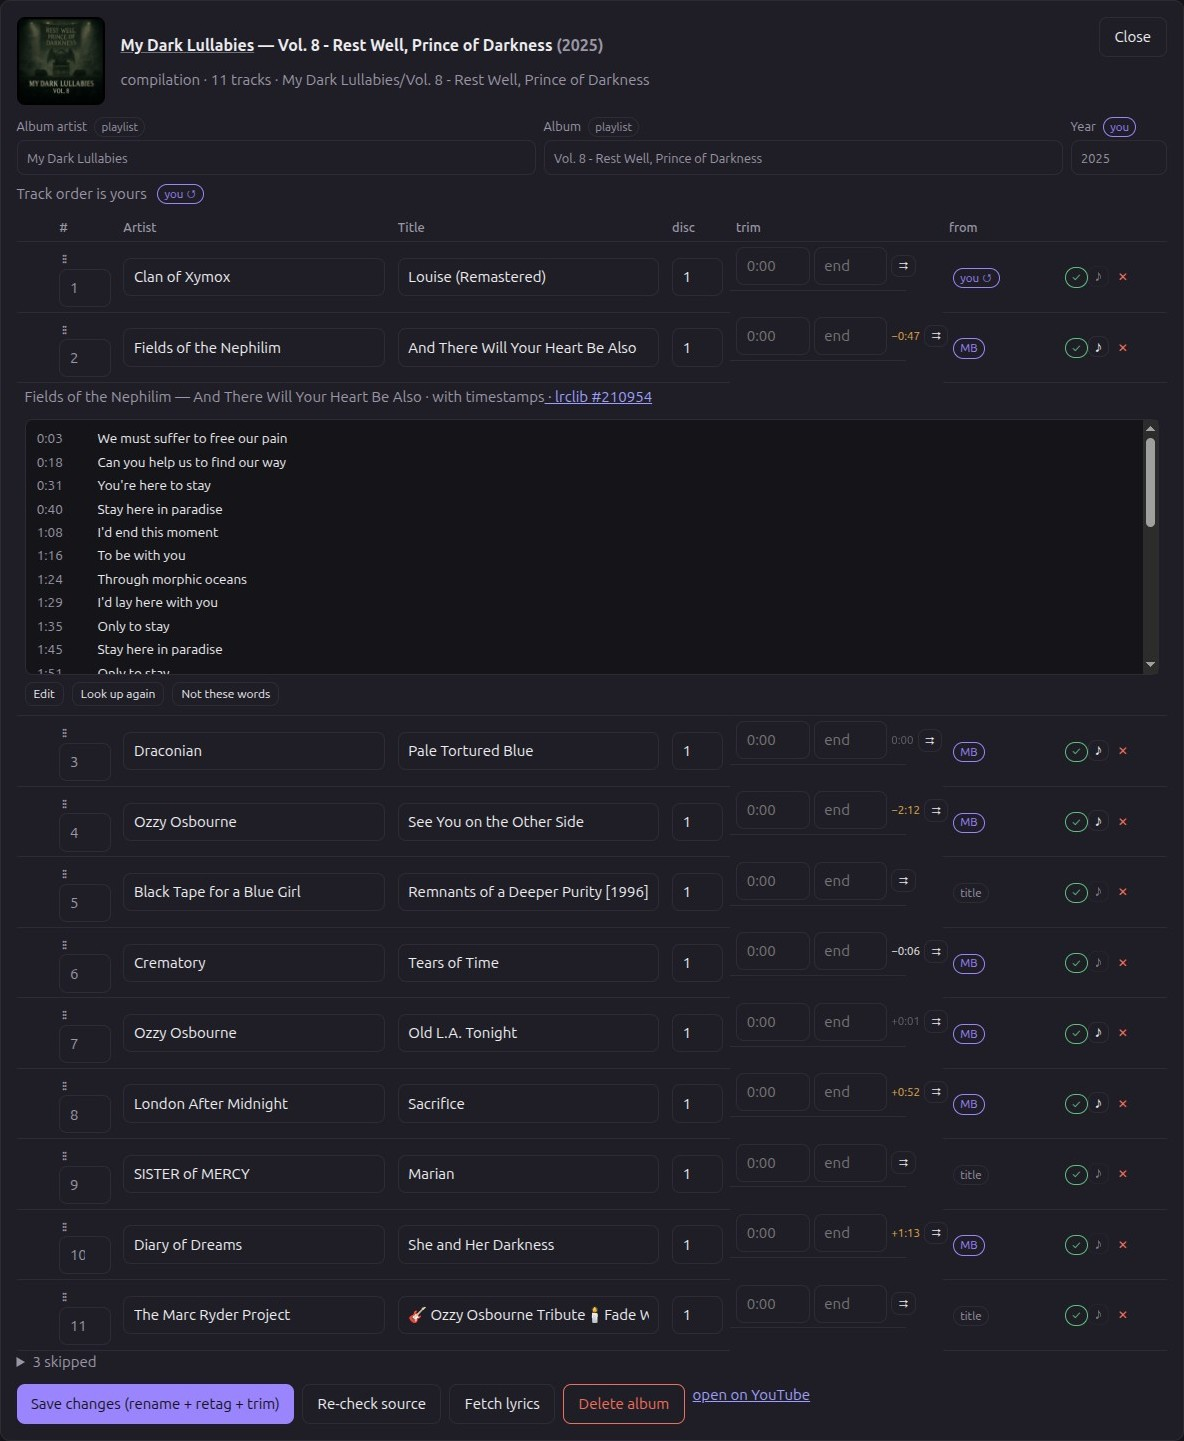
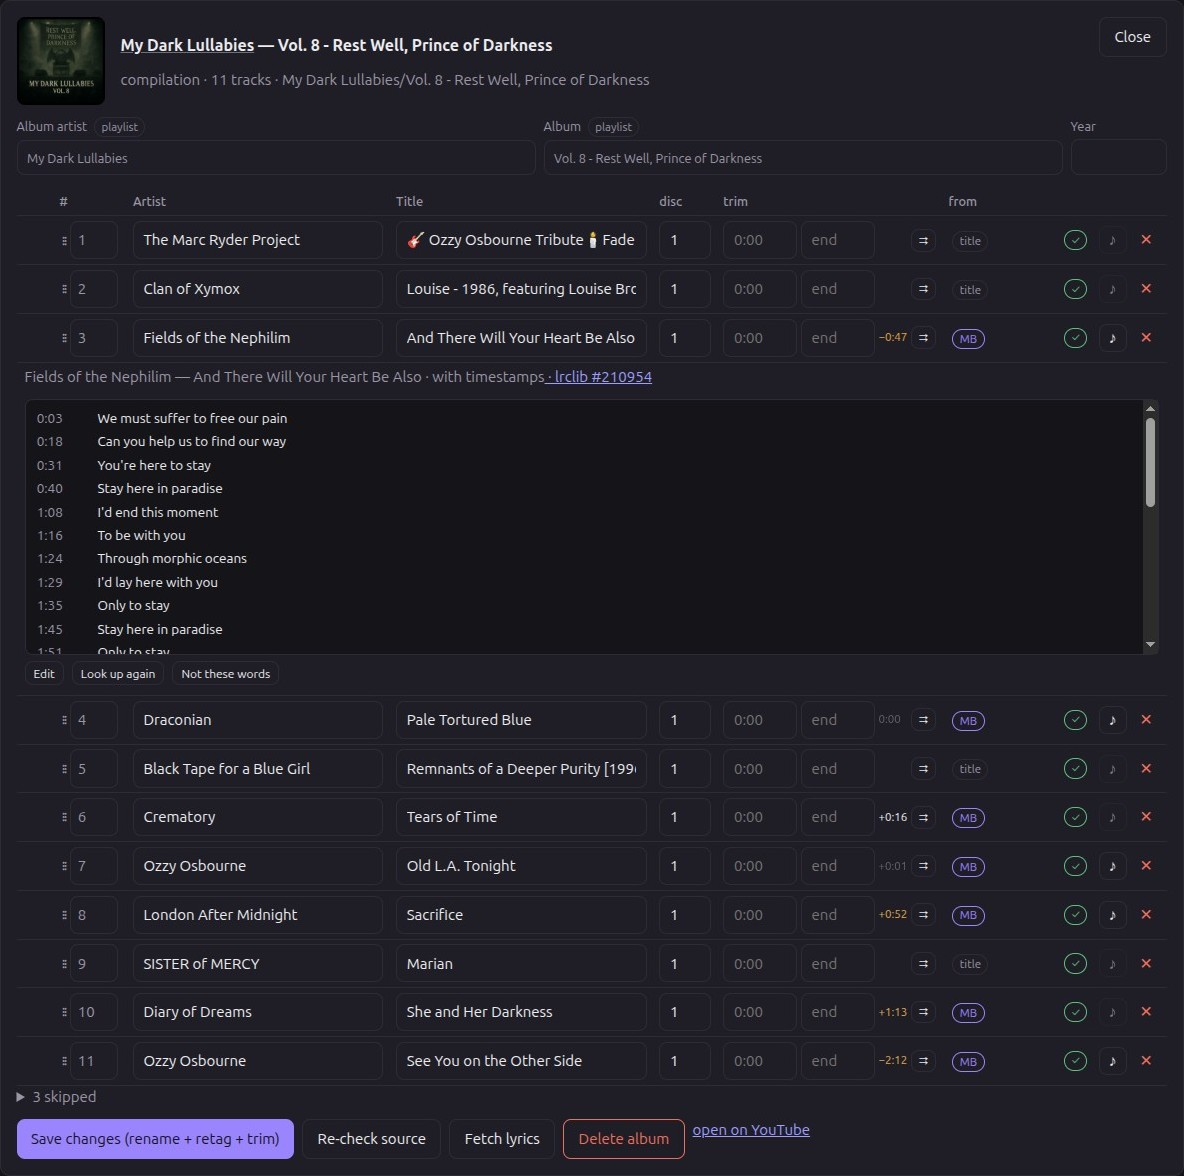
Five layout defects in the track rows
Reported by the user from real use, with an annotated screenshot. Two of them were
one fault:

- `td.trim { display: flex }` stops a <td> being a table cell, so it shared neither
  the row's height nor its vertical alignment: the trim fields floated above the
  rest of the row, and the playing row's highlight broke off underneath them. The
  flex row goes inside the cell now; all eight cells report the same height and the
  same background.
- The grip sat above the position field, because an `input.num` at width 100% took
  the line to itself — the cell was two lines tall and the row grew with it. Both
  are in a `.cell-row` now, centres on the same pixel.
- ✓ ♪ ✕ were ~18 px and touching, with room going spare. 28 × 28 each with .35 rem
  between them.
- On a highlighted row no control had a visible edge. `--line` is chosen against the
  panel and the band sits on top of it: measured, with the translucent band
  composited, 1.03 in dark and 1.08 in light, and 1.00 for the delete button whose
  border is transparent by design. Borders follow the foreground there now: 4.66 and
  4.51, past the 3:1 WCAG asks of a control boundary.

And one the fix itself introduced, caught by measuring: the narrowed position field
overflowed its own box by three pixels, invisible at seven tracks and a clipped
digit at fifty-six. Sized so 7, 12 and 56 all fit.

docs/screenshots/album.jpg retaken on the fixed rows, same width.
[…]

diff --git a/src/ytalbum/webui/style.css b/src/ytalbum/webui/style.css
@@ -146,11 +146,15 @@ tr.changed td { animation: flash 2.4s ease-out; }
 .card:hover .card-play, .card:focus-within .card-play, .card-play:focus-visible { opacity: 1; transform: none; }
 @media (hover: none) { .card-play { opacity: 1; transform: none; } }
 td.play { width: 2rem; }  /* its own cell, so showing the button on hover moves nothing */
-td.num { width: 4rem; }
-input.num { width: 100%; }
+td.num { width: 4.6rem; }
 .row-play { visibility: hidden; padding: .15rem .45rem; font-size: .75rem; background: var(--accent); color: var(--accent-ink); }
 tr:hover .row-play, .row-play:focus-visible { visibility: visible; }
 tr.playing td { background: color-mix(in srgb, var(--accent) 14%, transparent); }
+/* `--line` is chosen against the panel, and the highlight band sits on top of it: measured, a
+   control's edge against the band is 1.03 in dark and 1.08 in light — no boundary at all, leaving
+   a floating glyph. On a highlighted row the borders follow the foreground instead, which clears
+   3:1 in both themes (WCAG 1.4.11 asks that of a control's boundary). */
+tr.playing td button, tr.playing td button.danger-text { border-color: var(--muted); }
 tr.playing td.num .n { color: var(--accent); font-weight: 700; }
 .grid-wrap { display: flex; gap: .5rem; align-items: start; }
 .grid-wrap .grid { flex: 1; min-width: 0; }
@@ -212,7 +216,16 @@ dl.info { display: grid; grid-template-columns: max-content 1fr; gap: .25rem 1re
 dl.info dt { font-weight: 600; }
 dl.info dd { margin: 0; overflow-wrap: anywhere; }
 @media (max-width: 40rem) { .setting { grid-template-columns: 1fr; } }
-td.trim { width: 11rem; white-space: nowrap; display: flex; gap: .25rem; align-items: center; }
+/* A `display: flex` on a <td> stops it being a table cell: it no longer shares the row's height,
+   so its content floated above the rest of the row and the row's highlight broke off under it.
+   The flex row goes *inside* the cell instead (`.cell-row`), which is also what keeps the grip
+   beside the position field rather than above it. */
+td.trim { width: 12rem; white-space: nowrap; }
+.cell-row { display: flex; gap: .25rem; align-items: center; }
+td.num .cell-row { gap: .15rem; }
+/* room for two digits beside the grip: a 56-track album has them, and the base .6rem side
+   padding plus the number spinner left the value overflowing its own box */
+td.num input.num { width: 3rem; flex: 0 0 auto; padding-left: .4rem; padding-right: .3rem; }
 td.disc { width: 4rem; }
 input.disc { width: 100%; }
 td.trim input { width: 4.6rem; }  /* padding and font stay the base ones, or the row's inputs differ in height */
@@ -224,7 +237,15 @@ td.trim .len.bad { color: var(--bad); font-weight: 600; }
 td.trim input[data-suggested="1"] { border-style: dashed; border-color: var(--accent); }
 
 /* lyrics: the marker in a track row, and the text it opens */
-button.lyr { font-size: 1.05em; line-height: 1; padding: .1rem .35rem; }
+/* ✓ ♪ ✕ at the end of a row are the things a finger goes for; they were 18 px and touching.
+   28 px square with real space between them, in the room the row already has (P15's touch work). */
+td.actions-cell { display: table-cell; }
+td.actions-cell > * { vertical-align: middle; }
+td.actions-cell .badge { margin-right: .35rem; }
+button.lyr, td.actions-cell button.danger-text {
+  min-width: 28px; min-height: 28px; padding: 0 .4rem; margin-left: .35rem;
+  font-size: 1.05em; line-height: 1;
+}
 tr.lyrics > td { padding: .2rem .5rem .6rem; }
 tr.lyrics pre {
   margin: .3rem 0 0; padding: .5rem .6rem; max-height: 16rem; overflow: auto;

diff --git a/src/ytalbum/webui/app.js b/src/ytalbum/webui/app.js
@@ -687,27 +687,27 @@ function renderAlbum() {
       h("td", { class: "play" },
         t.state === "done" ? h("button", { class: "row-play", type: "button", title: "Play from here", "aria-label": `Play ${t.title}`,
           onclick: () => playAlbum(p.source_id, p.tracks.filter((x) => x.state === "done").findIndex((x) => x.video_id === t.video_id)) }, "▶") : null),
-      h("td", { class: "num" },
+      h("td", { class: "num" }, h("div", { class: "cell-row" },
         h("span", { class: "grip", title: "Drag to move this track — or focus it and press Alt+↑ / Alt+↓", "aria-hidden": "true",
           onpointerdown: startRowDrag }, "⋮⋮"),
         h("input", { type: "number", name: "number", class: "num", min: "1", step: "1", value: t.number,
-          "aria-label": `position of ${t.title}`, title: "Position — change it and the album keeps your order" })),
+          "aria-label": `position of ${t.title}`, title: "Position — change it and the album keeps your order" }))),
       h("td", {}, h("input", { type: "text", name: "artist", value: t.artist, "aria-label": "artist" })),
       h("td", {}, h("input", { type: "text", name: "title", value: t.title, "aria-label": "title" })),
       h("td", { class: "disc" },
         h("input", { type: "number", name: "disc", class: "disc", min: "1", step: "1", value: t.disc,
           "aria-label": `disc of ${t.title}`, title: "Which disc this track belongs to" })),
-      h("td", { class: "trim" },
+      h("td", { class: "trim" }, h("div", { class: "cell-row" },
         h("input", { type: "text", name: "trim_start", value: asTime(t.trim_start), placeholder: "0:00", "aria-label": "cut from the front", size: 5,
           oninput: (e) => suggestEnd(e.currentTarget, t) }),
         h("input", { type: "text", name: "trim_end", value: asTime(t.trim_end), placeholder: "end", "aria-label": "play until", size: 5 }),
         lengthChip(t),
         t.channel ? h("button", { class: "quiet small", type: "button", title: `Apply this trim to every track from ${t.channel} in the library`,
-          onclick: (e) => trimChannel(t, e.currentTarget) }, "⇉") : null),
+          onclick: (e) => trimChannel(t, e.currentTarget) }, "⇉") : null)),
       h("td", { class: "src" },
         t.provenance.artist === "user" ? resetMark(p, t, "artist", "artist") : null,
         resetMark(p, t, "title", "title")),
-      h("td", { class: "src" },
+      h("td", { class: "src actions-cell" },
         t.state === "done" ? h("span", { class: "badge ok" }, "✓")
           : t.error_kind === "no_audio_stream" ? h("button", { class: "quiet small", type: "button", title: t.error || "", onclick: (e) => askAudioChoice(p, t, e.currentTarget) }, "no audio — choose")
           : t.state === "failed" ? h("span", { class: "badge bad", title: t.error || "" }, "failed") : h("span", { class: "badge" }, "pending"),

diff --git a/docs/qa-catalog.md b/docs/qa-catalog.md
@@ -1073,6 +1073,64 @@ themselves are the harness's own evidence.
     imports `./logic.mjs?v=d65eda03de`; touching the module took it to `05175a0217` **and** `app.js`
     from `fbce9445f5` to `a3cd1aeba3`, then both restored
 
+## S. Four layout defects in the track rows (P20)
+
+Reported by the user from real use on v0.3.0, with an annotated screenshot — four red circles, left
+to right. Checked after the fix in all three row states (plain, selected, playing), at 1184 and 1280,
+and on a two-disc album.
+
+- [x] **S1 · R** — the grip broke the line
+  - was: `⋮⋮` sat *above* the position field, so the cell was two lines tall and the whole row grew
+  - cause: the grip and an `input.num` at `width: 100%` in the same cell — the input took the line
+  - now: both in a `.cell-row` flex box; the grip's centre and the number's centre are the same pixel
+    (369 in the check), the cell is one line of 38 px inside a 49 px row
+  - **result:** pass
+
+- [x] **S2 · R** — the trim cell sat higher than the rest
+  - was: the two time fields, the gap figure and the ⇉ button floated above the row's other content
+  - cause: **`td.trim { display: flex }`** — a `display: flex` on a `<td>` stops it being a table
+    cell, so it no longer shares the row's height or its vertical alignment
+  - now: the cell is a table cell again and the flex row is inside it; the trim field's centre and
+    the title field's centre are the same pixel
+  - **result:** pass
+
+- [x] **S3 · R** — the highlight had a gap
+  - was: on the playing row the band broke off under the trim cell, so the row read as two pieces
+  - cause: the same `display: flex` — the cell's box was its content's height, not the row's, so the
+    row background did not reach across it
+  - now: all eight cells report the same `y`, the same height (49) and the same background
+  - **result:** pass, and S2 and S3 were one defect with two faces
+
+- [x] **S4 · R** — the ✓ ♪ ✕ cluster was cramped
+  - was: ~18 px targets, touching, with room going spare to the right
+  - now: 28 × 28 each with .35 rem between them (measured: ♪ at x=1117, ✕ at x=1150, both 28 × 28)
+  - **result:** pass
+
+- [x] **S5 · R** — on a highlighted row the controls lost their edges
+  - was: the ♪, the ⇉ and the ✕ kept only their glyphs on the playing row; their borders vanished
+    into the highlight
+  - cause: `--line` is chosen against the panel, and the band sits on top of it. **Measured, with the
+    translucent band composited over what is behind it:** in dark the band is `48,44,68` and a
+    control's border `46,43,54` → **1.03**; in light the band is `234,230,250` and the border
+    `226,223,232` → **1.08**; the delete button's border is transparent by design → **1.00**. No
+    boundary at all, in either theme — worse than reported, which had it as a dark-mode fault
+  - now: on a highlighted row the borders follow the foreground — **4.66** in dark and **4.51** in
+    light, past the 3:1 that WCAG 1.4.11 asks of a control's boundary
+  - **result:** pass. And the reviewer's assumption about the lyrics panel is **wrong in a useful
+    way**: the panel row does not inherit the band (measured backgrounds `31,29,37` dark and
+    `255,255,255` light, i.e. the plain panel), so opening it from a highlighted row changes nothing.
+    What the same measurement *did* show is reported below rather than fixed here
+  - *my own measurement lied first:* the first pass parsed `color(srgb 0.6 0.52 1 / 0.14)` as if the
+    floats were 0–255 and reported 1.51 and 15.92 — plausible numbers, both wrong. A contrast figure
+    is worthless unless the parser handles the colour space and composites the alpha
+
+- [x] **S6 · R** — what the fix itself broke, found while looking
+  - the position field was 2.6 rem with .6 rem side padding: its own value overflowed its box
+    (`scrollWidth` 43 vs `clientWidth` 40) and a two-digit number would have been clipped — a 56-track
+    album has those. Now 3 rem with tighter side padding; `7`, `12` and `56` all fit exactly
+  - **result:** pass. Caught by measuring rather than by looking, which is the complement to the
+    entry below
+
 ## Results
 
 | Date | Cases run | Passed | Failed | Notes |
@@ -1094,9 +1152,16 @@ themselves are the harness's own evidence.
 
 ### Evidence methods that lied
 
-Six of my own checks produced a false result, or none at all, before the software did anything
+Seven of my own checks produced a false result, or none at all, before the software did anything
 wrong. Use these forms:
 
+- **A layout check needs a picture *and* a measurement, and neither finds the other's faults.**
+  P15 added the grip and P17 photographed the rows; both passed. The grip was sitting above the
+  position field in the very image that was approved (docs/screenshots/album.jpg, P17), and nobody
+  saw it — a row one line taller looks like a row. It took a user working in the UI to notice.
+  Measuring found the opposite kind: the position field's value overflowing its box by three pixels,
+  invisible at 7 tracks and a clipped digit at 56. Photograph it to see what is ugly, measure it to
+  see what is wrong.
 - **A DOM assertion proves an element exists, not that anyone can see it.** P12's reset affordance
   was checked by `outerHTML`, `textContent`, class names and the plan after the click — all passing,
   all blind to contrast. `button.badge.reset` inherited the button default's accent *background*
